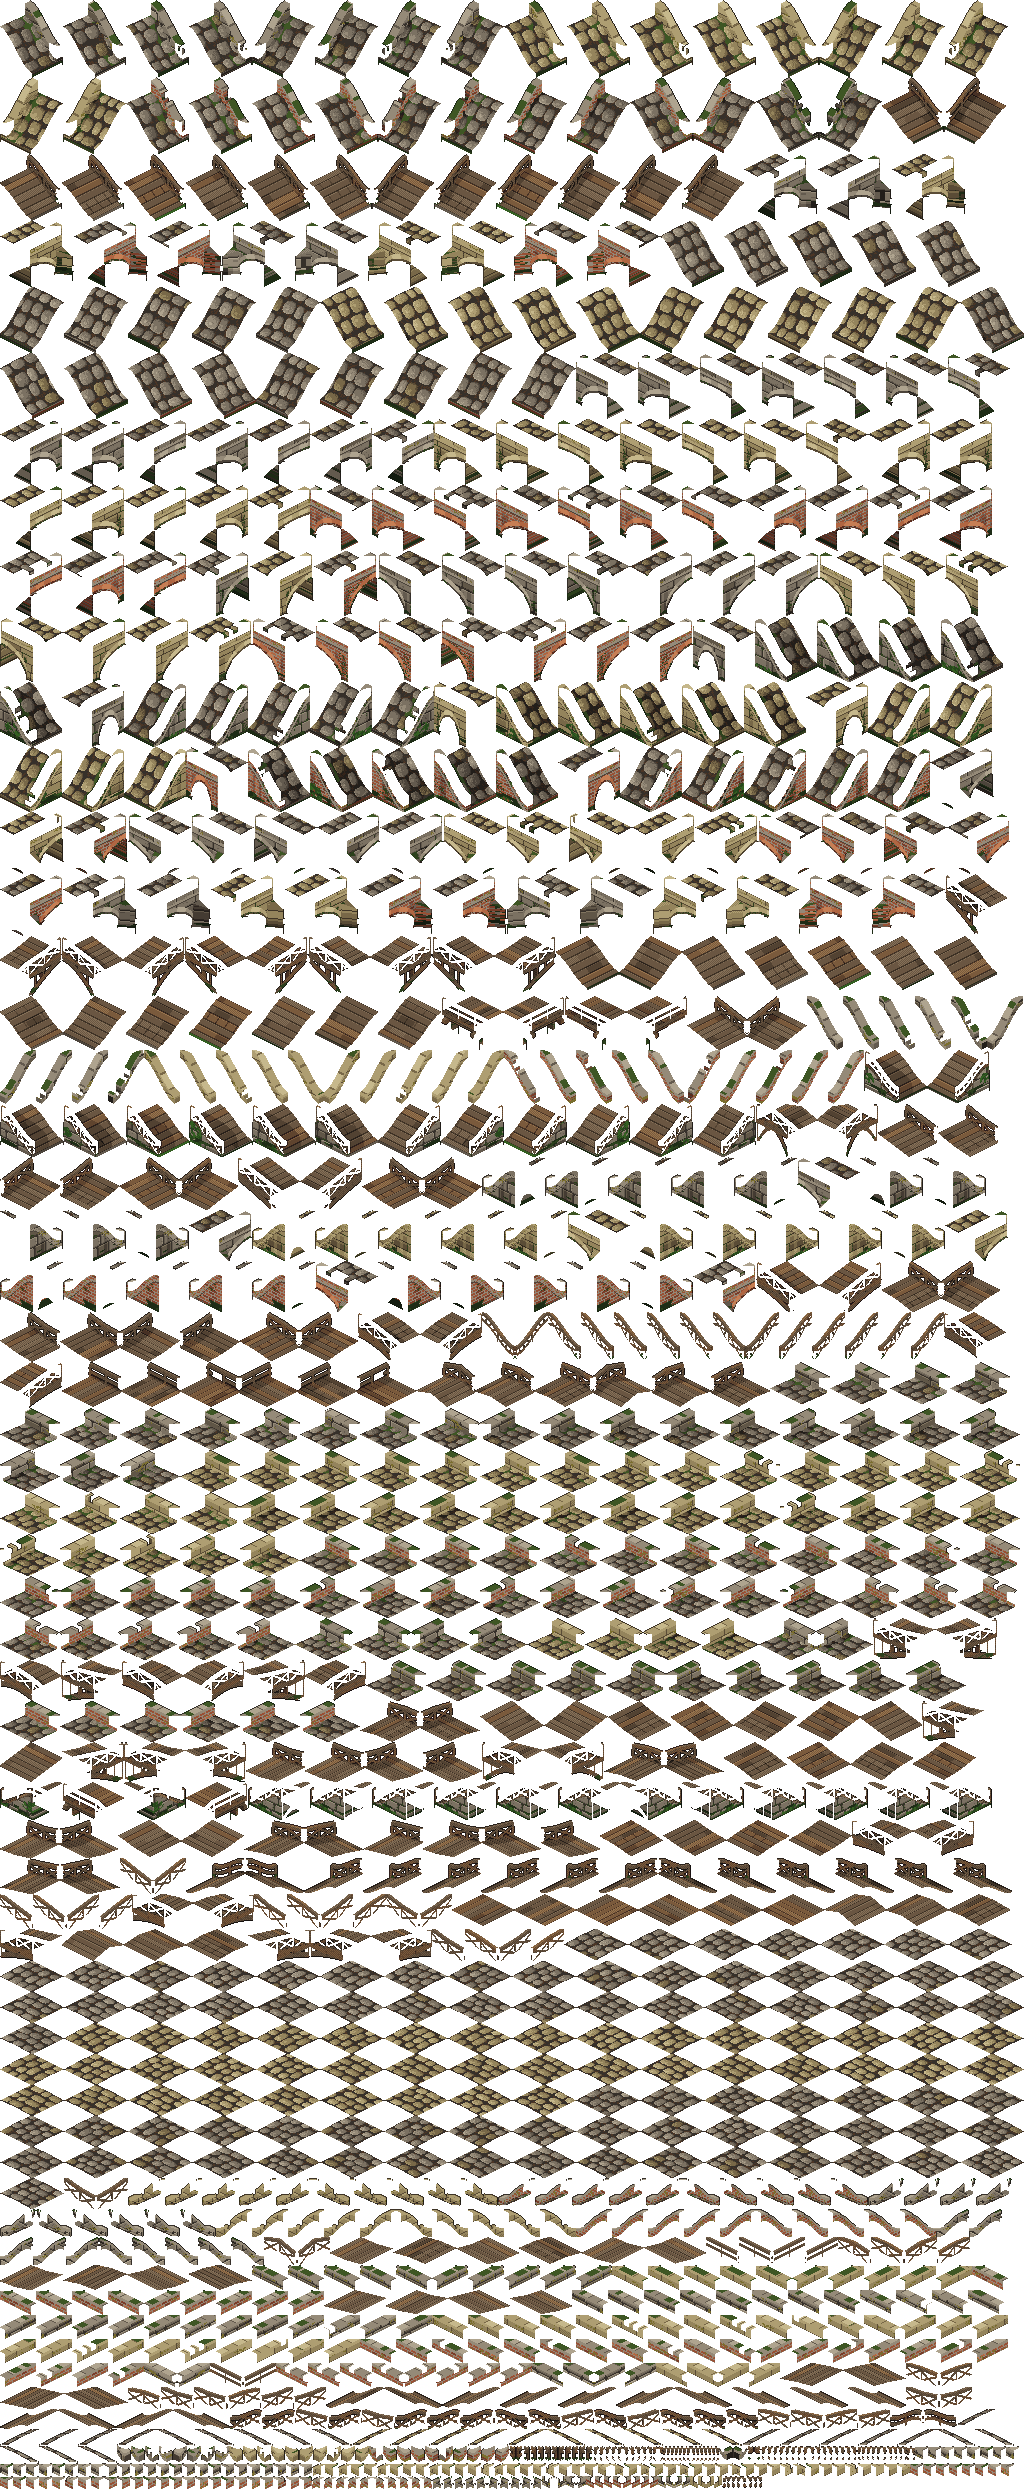
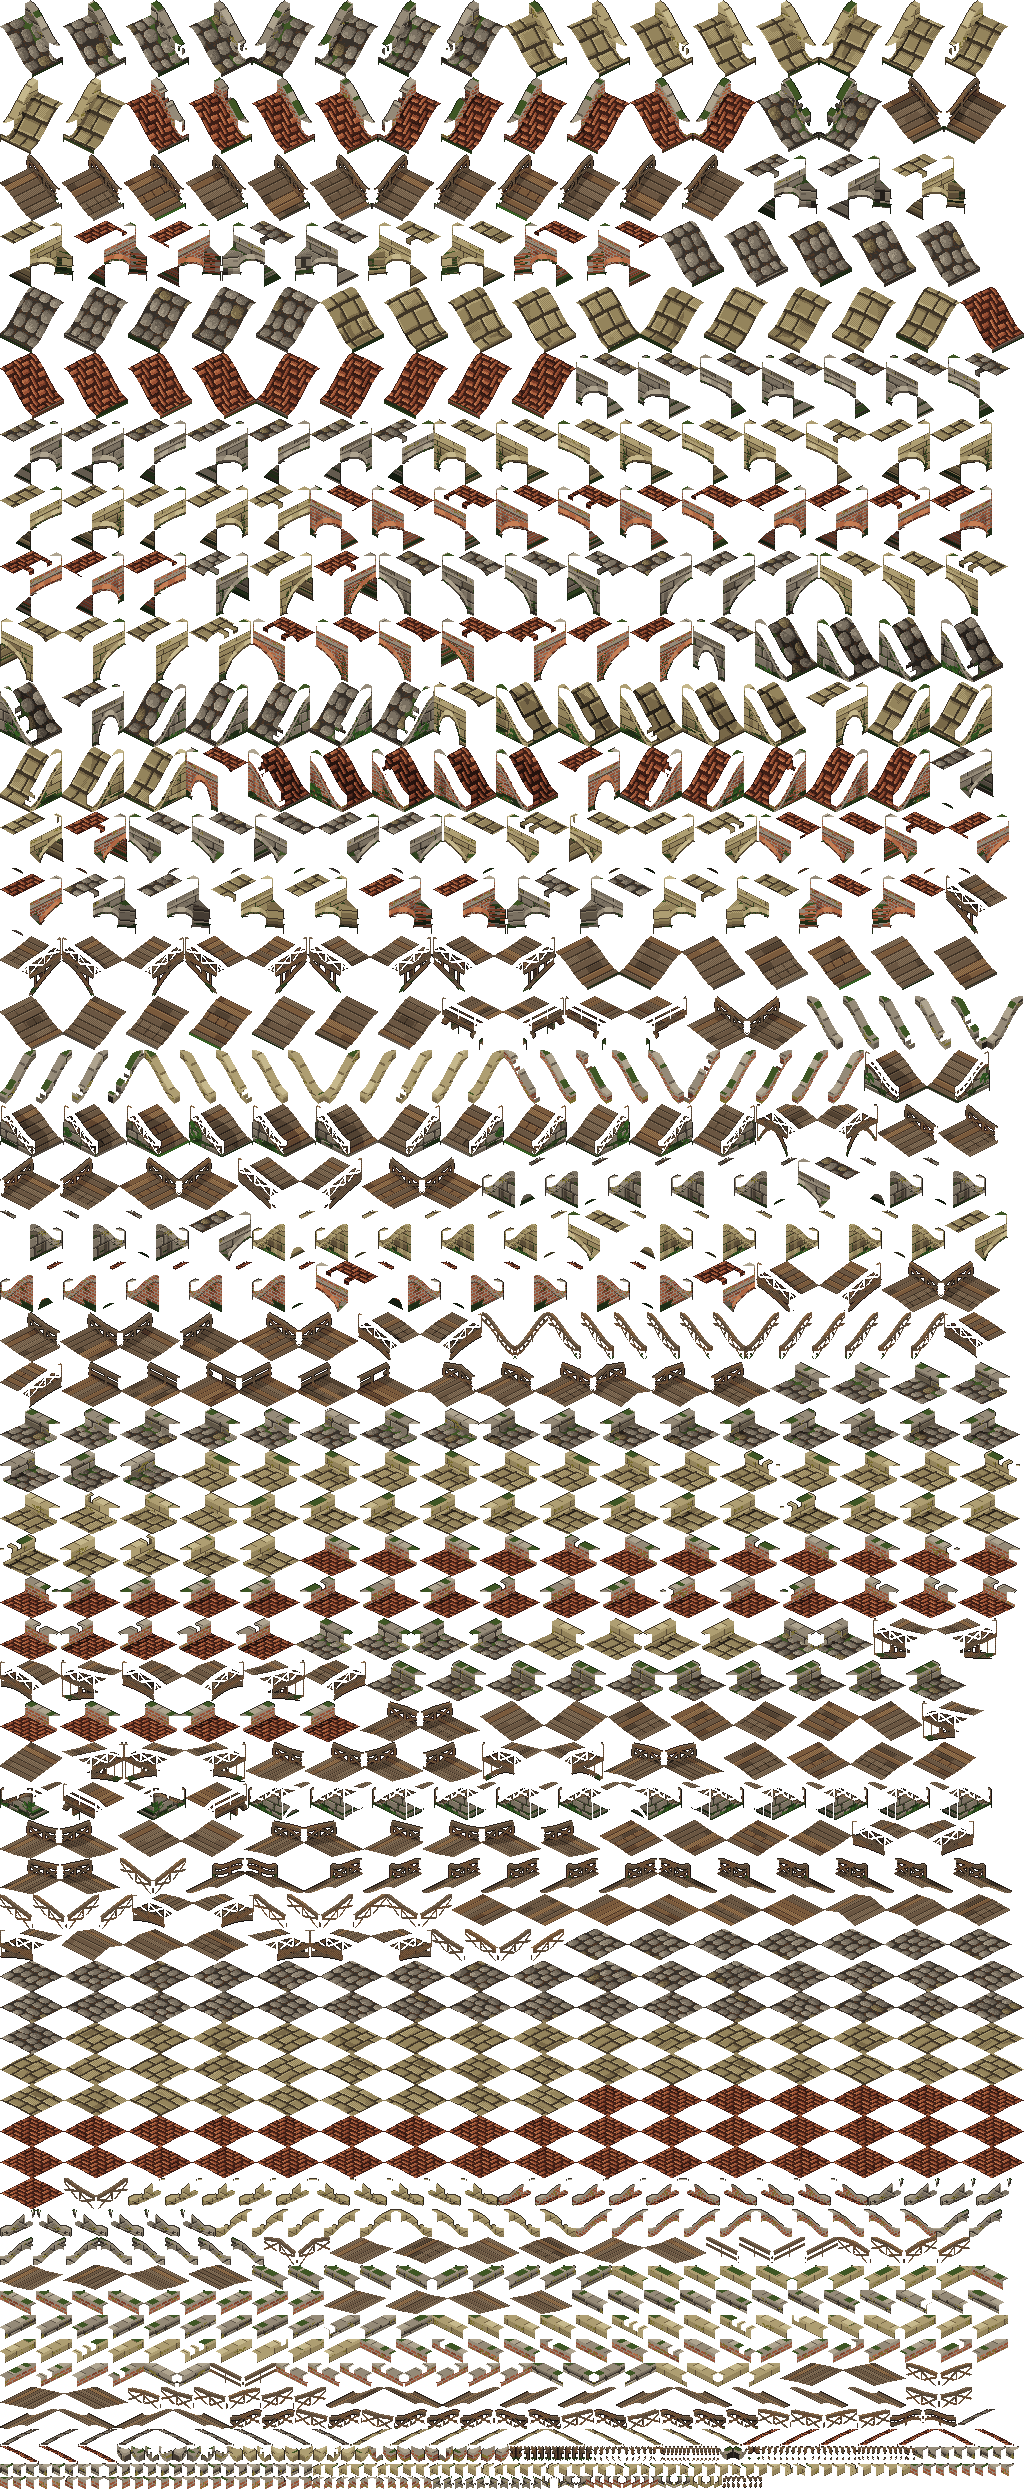
Bruggen: het wegdek van de steen van de brug, geen looppaadje erop, en de proefplaat van de schuine bruggen
Marcel, 17 okt: "je moet altijd het materiaal waarvan de brug gemaakt is zien bij het pad": het wegdek is kinderkopjes
van veldsteen, gehakte blokken zandsteen, of klinkers in visgraat op een brug van baksteen (een straat, geen dak), elk
met een afgeschuinde rand. "Op een brug kan geen looppaadje ontstaan": geen lichte strook meer in het midden van het
dek, en js/paden.js laat op een brug en zijn landhoofden geen paadje slijten.

En de proefplaat voor vraag R (node gereedschap/pixelart/bruggen.cjs schuin): twee bruggen recht opzij over een rivier
recht omlaag (veldsteen met een peloton, de houten boogbrug) en drie recht omhoog (zandsteen, de jukbrug, en baksteen in
drie rijen in plaats van vier, om te vergelijken).

Claude-Session: https://claude.ai/code/session_01HNnbMq3zaGXouj2zumrMh8

diff --git a/js/paden.js b/js/paden.js
@@ -217,10 +217,11 @@
     w.paden.vandaag[k] = (w.paden.vandaag[k] || 0) + 1;
   };
 
-  // Mag hier een paadje slijten? Niet op een veld (daar maait en ploegt de boer, en het is al kale grond).
+  // Mag hier een paadje slijten? Niet op een veld (daar maait en ploegt de boer, en het is al kale grond), en niet op een
+  // brug van het eiland of zijn landhoofden (Marcel, 17 okt: "op een brug kan geen looppaadje ontstaan").
   const magSlijten = (w, k) => {
     const t = T.tegelVanNummer(k);
-    return !T.veldOp(w, t.x, t.y);
+    return !T.veldOp(w, t.x, t.y) && !T.brugOp(w, t.x, t.y);
   };
 
   // Elke nacht (vanuit T.tikGebouwenDag, js/gebouwen.js): wat er vandaag gelopen werd, in het gemiddelde; welke tegels

diff --git a/ontwerp/beeld.md b/ontwerp/beeld.md
@@ -1120,7 +1120,11 @@ persoon." Op de tweede: **"Goed zo, zet ze in het spel"**.
   een glimlicht, korrel, af en toe een warmere steen, en zand of mos in de voegen. En "de knak in de brug mag er niet
   zijn", "moet natuurlijk overlopen": het wegdek loopt op een landhoofd in een S-bocht van de oever naar het dek, vlak aan
   beide uiteinden (`sBocht`, in acht vlakke plakken), en de houten boogbrug buigt als sin², zodat ook hij zonder knik op
-  zijn landhoofd aansluit. Wie erop loopt, volgt dezelfde bocht (`dekOp`, `S.brugDek`).
+  zijn landhoofd aansluit. Wie erop loopt, volgt dezelfde bocht (`dekOp`, `S.brugDek`). En "op een brug kan geen
+  looppaadje ontstaan": het wegdek is overal even sleets (geen lichte strook in het midden), en in het spel slijt er op een
+  brug geen paadje (`js/paden.js`). En "je moet altijd het materiaal waarvan de brug gemaakt is zien bij het pad": het
+  wegdek is van de steen van de brug (`wegdekVan`): kinderkopjes van veldsteen, gehakte blokken zandsteen in rijen, en
+  klinkers in visgraat op een brug van baksteen (een straat, geen dak), elk met een afgeschuinde rand.
 - **In het spel** (`bruggen-vel.cjs`, `beelden/bruggen.png`): stukken van één tegel in twee lagen, geknipt uit hele
   bruggen, zodat er geen naad op een tegelrand komt; de achterlaag (het dek, de overkant, de zijkant met de bogen) vóór
   wie erop loopt, de voorlaag (de borstwering of de leuning aan de kant van de kijker) erna. In het spel ligt het water

diff --git a/ontwerp/code.md b/ontwerp/code.md
@@ -1131,7 +1131,9 @@ de browser en in de Node-tests werkt. De volgorde van de scripts in `index.html`
   het paadje van een buur (`T.aangelegdNet`, uit de kaart en de gebouwen, niet in S: na `T.kaartVeranderd` opnieuw, met
   `T.kaartVersie` in `js/wereld.js`; wat het per tegel nakijkt, de rasters `weg` en `mag`, alleen op de plekken die
   veranderden, `T.kaartPlekkenSinds`, 13 okt: 10 ms naar 2); waar mensen lopen, slijt het gras (`T.telStap` vanuit `js/anim.js`, een dier telt
-  niet; elke nacht `T.tikPadenDag`, in S als `w.paden`), en waar niemand meer loopt, groeit het dicht. Hoe het eruitziet:
+  niet; elke nacht `T.tikPadenDag`, in S als `w.paden`), en waar niemand meer loopt, groeit het dicht (niet op een veld,
+  en niet op een brug van het eiland of zijn landhoofden: `magSlijten`; Marcel, 17 okt: "op een brug kan geen looppaadje
+  ontstaan"). Hoe het eruitziet:
   `T.zandHoeken` en `T.hoekenMetPaden` (de hoeken van de grond, zoals `T.sprites.grondHoeken`), in de buffer van de grond
   (`js/tekenen.js`). Een lantaarn bij de deur van wat `lantaarn` heeft in `T.GEBOUWEN` (de kapel, de herberg, de markt,
   het wachthuis) en op de kruisingen (`T.zetLantaarns`; op een lantaarn bouw je niet). De ramen van een huis waar iemand
